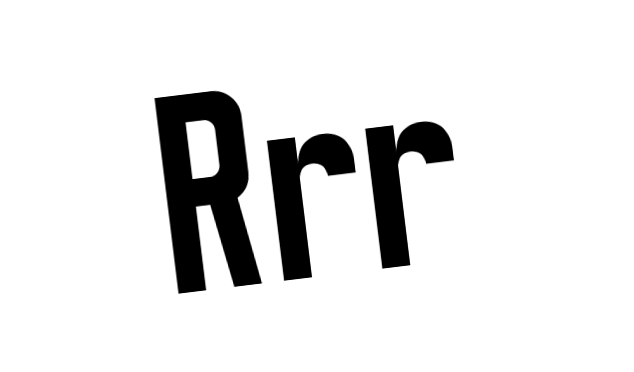
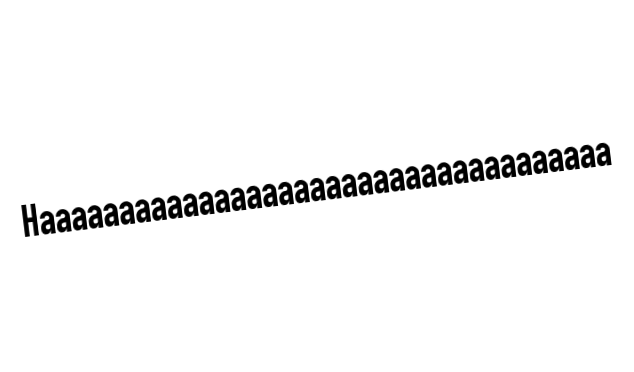
Screensaver loads only last 1000 inputs

Changed region(s): [[0.03, 0.2366, 0.989, 0.7984]]

diff --git a/screensaver.js b/screensaver.js
@@ -16,16 +16,28 @@ Router.route('/screensaver', function(){
 if (Meteor.isClient) {	
 	Template.screensaver.helpers({
 		answers: function(){
-			return Answers.find({});
+			return Answers.find({}, {
+				sort: {createdAt: -1},
+				limit: 250
+				});
 		},
 		questions: function(){
-			return Questions.find({});
+			return Questions.find({}, {
+				sort: {createdAt: -1},
+				limit: 250
+				});
 		},
 		comments: function(){
-			return Comments.find({});
+			return Comments.find({}, {
+				sort: {createdAt: -1},
+				limit: 250
+				});
 		},
 		slogans: function(){
-			return Protests.find({});
+			return Protests.find({}, {
+				sort: {createdAt: -1},
+				limit: 250
+				});
 		}
 		
 	});

diff --git a/screensaver.css b/screensaver.css
@@ -10,7 +10,7 @@
 
 .word {
 	position: absolute;
-	font-size: 10em;
+	font-size: 7em;
 	text-align: center;
 	line-height: .8em;
 }
